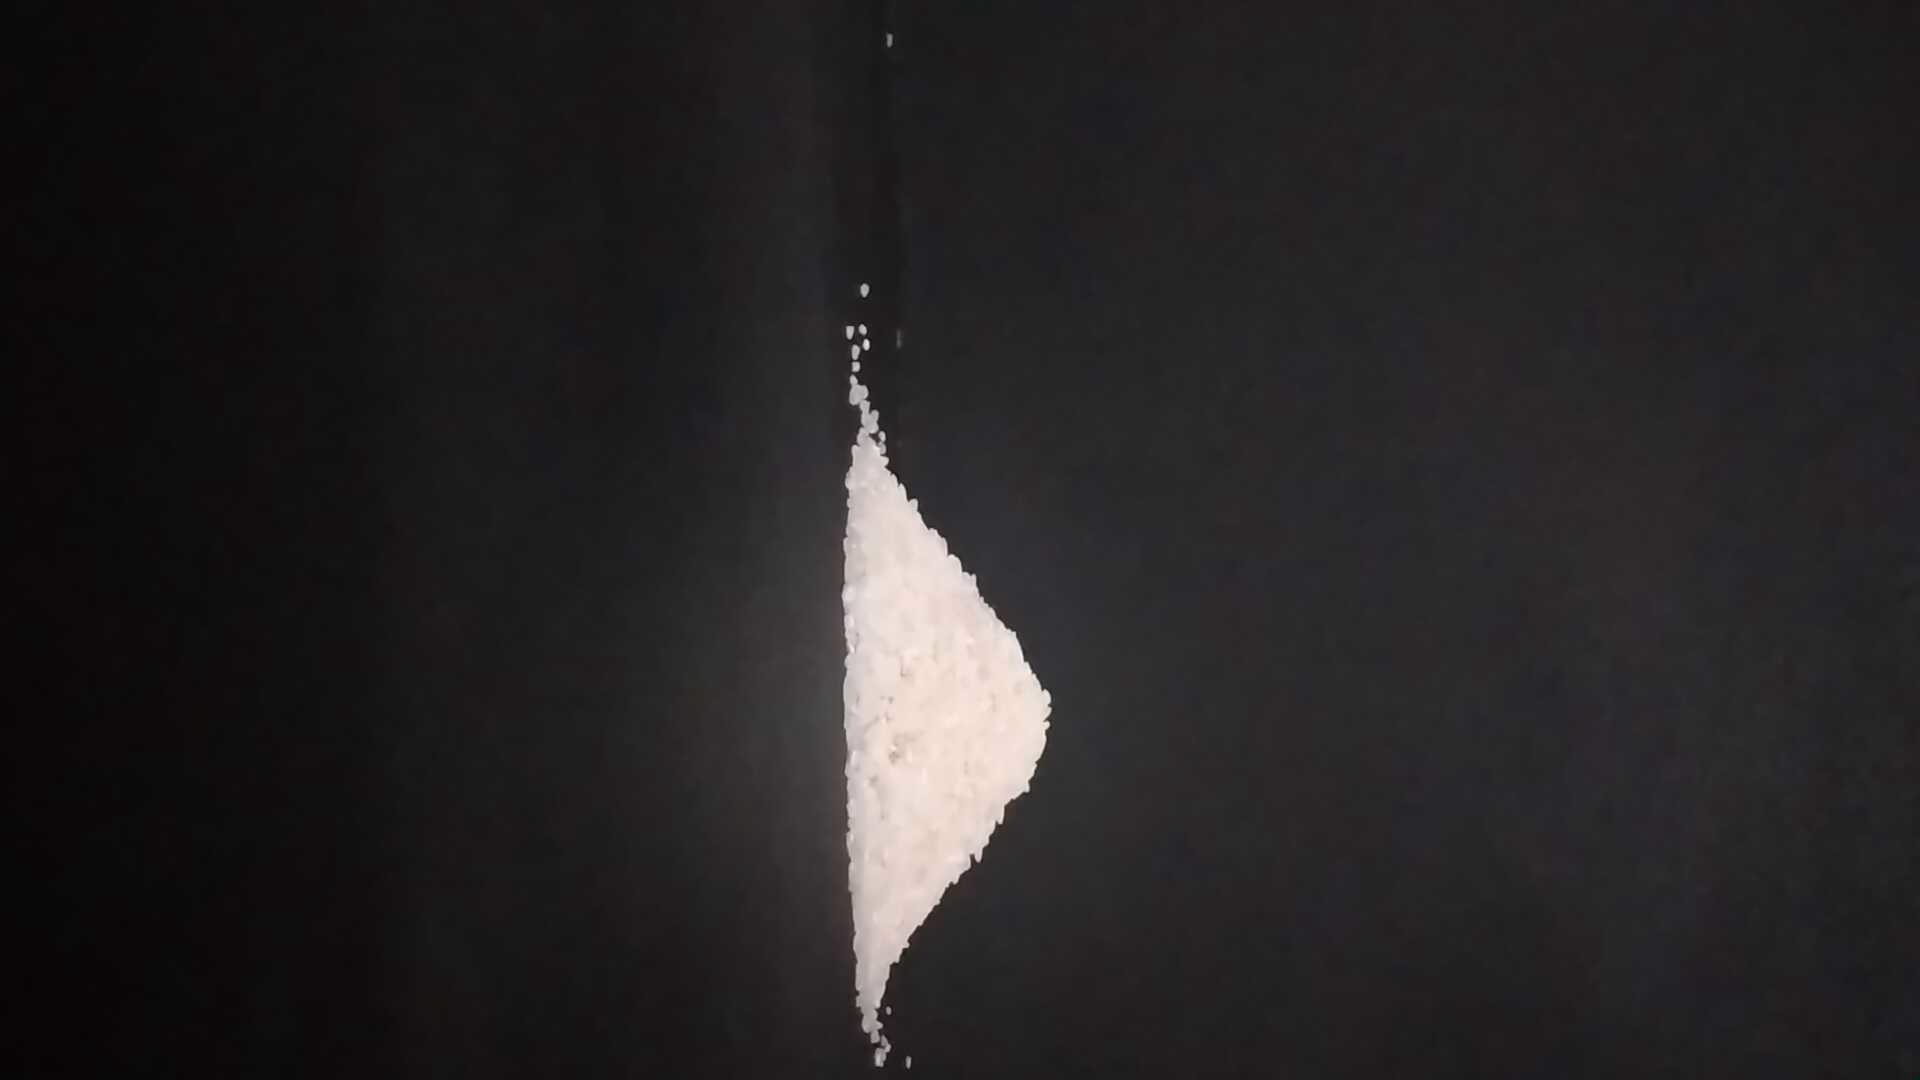
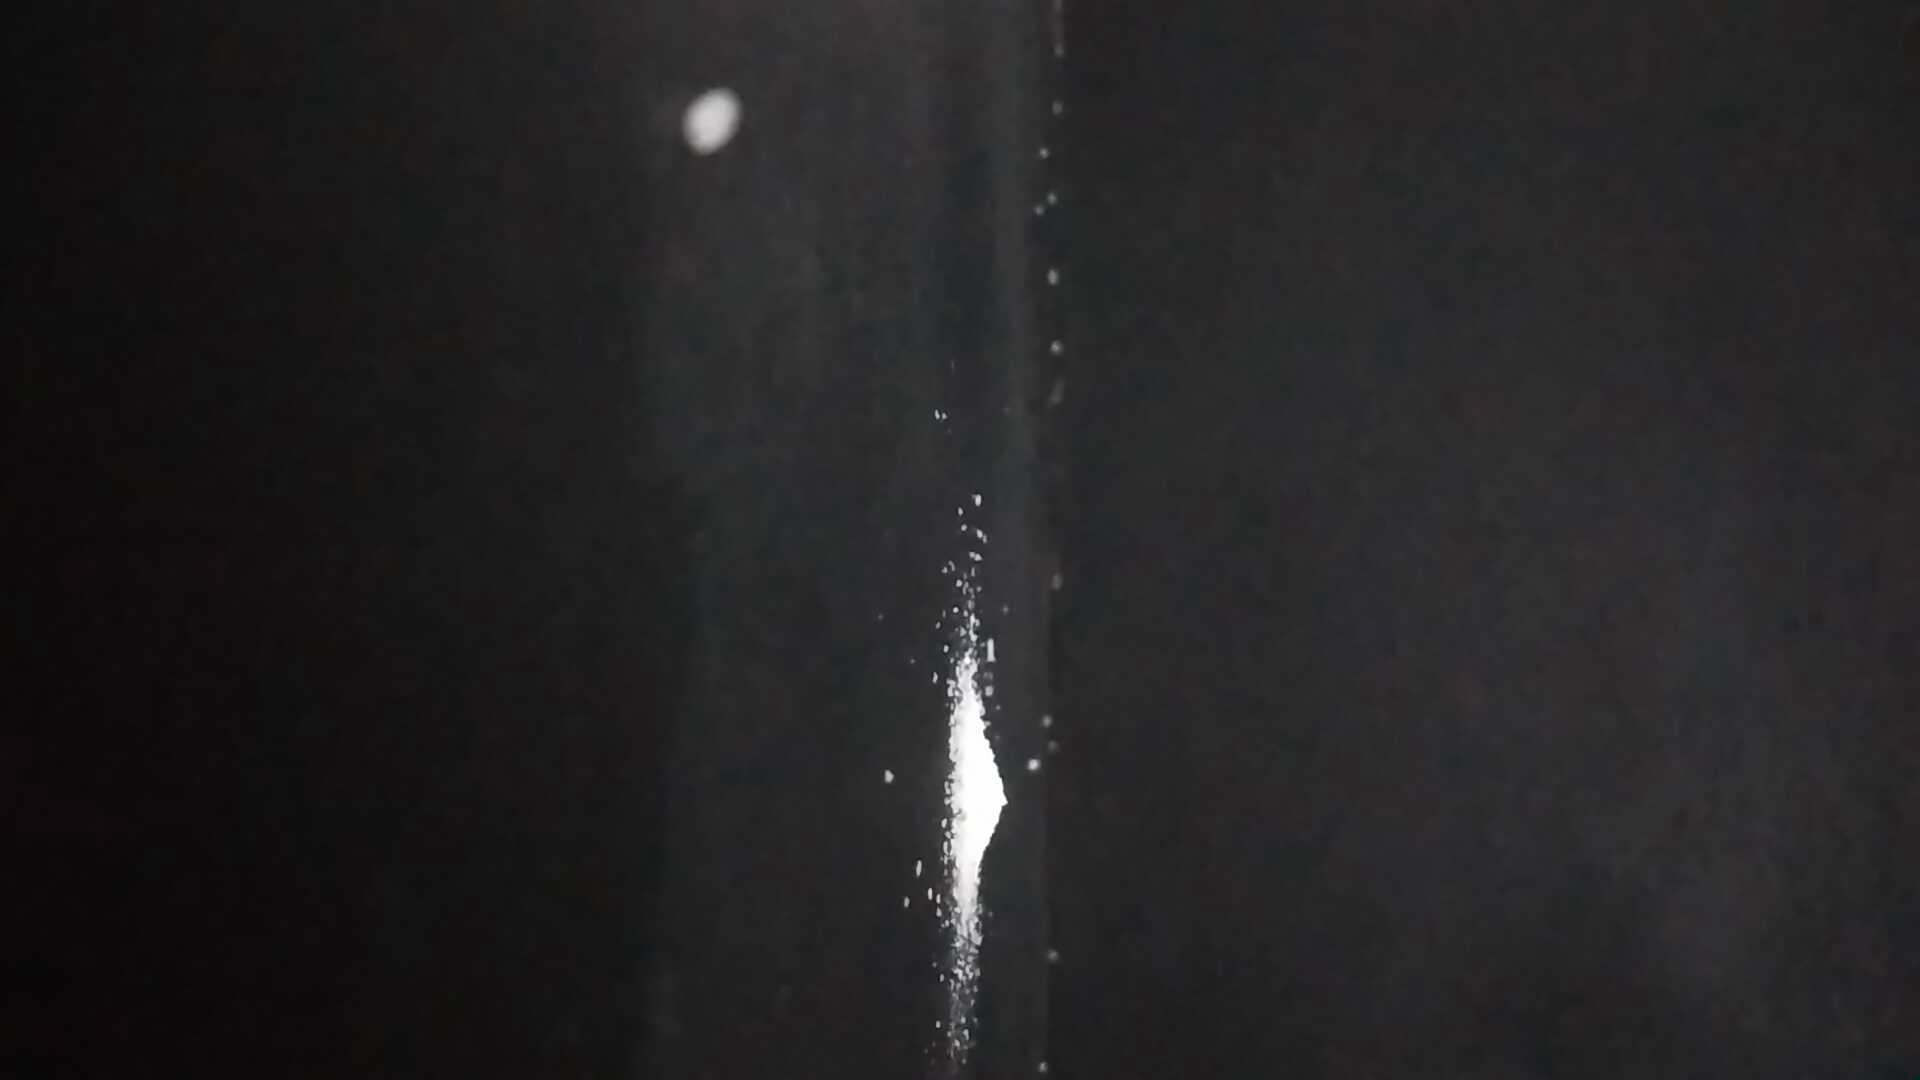
rotate

diff --git a/code_beras.py b/code_beras.py
@@ -23,7 +23,8 @@ while True:
     cap = cv2.VideoCapture(url)
     ret, img = cap.read()
     show = cv2.resize(img, (500, 300))
-    cv2.imshow("Tekan ESC untuk keluar, tekan C dua kali untuk volume", show)
+    show = cv2.rotate(show, cv2.ROTATE_90_COUNTERCLOCKWISE)
+    cv2.imshow("ESC untuk keluar, C double untuk volume", show)
     
     # Press C for calculate the volume
     if cv2.waitKey(0) == ord('c'):
@@ -40,12 +41,13 @@ while True:
 
         with open("android_camera.txt", encoding='utf8') as jarak:
           jarak = jarak.readlines()[1]
-          
+        
         jarak = float(jarak)
         print("jarak (m):", jarak)
 
         # Menampilkan citra biner
         biner = cv2.resize(opening, (500, 300))
+        biner = cv2.rotate(biner, cv2.ROTATE_90_COUNTERCLOCKWISE)
         cv2.imshow("Citra biner", biner)
 
         print("Sedang memproses...")

diff --git a/ml_model_beras.py b/ml_model_beras.py
@@ -29,4 +29,4 @@ lin_reg = LinearRegression()
 lin_reg.fit(x_train.values, y_train.values)
 
 def predict(jarak, pixel):
-        return lin_reg.predict([[jarak, pixel]])
+        return lin_reg.predict([[pixel, jarak]])
